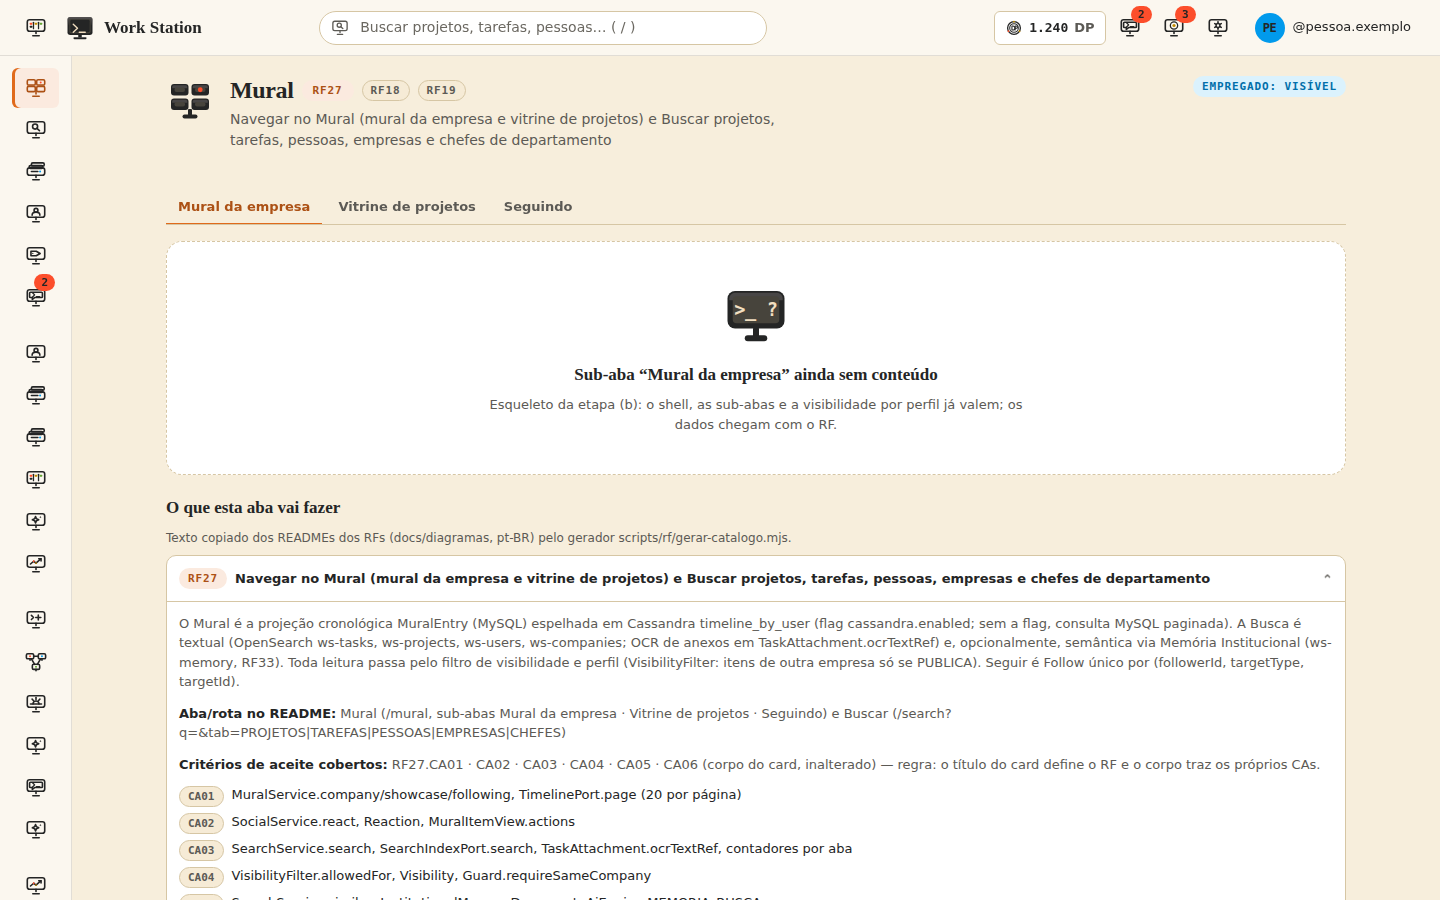
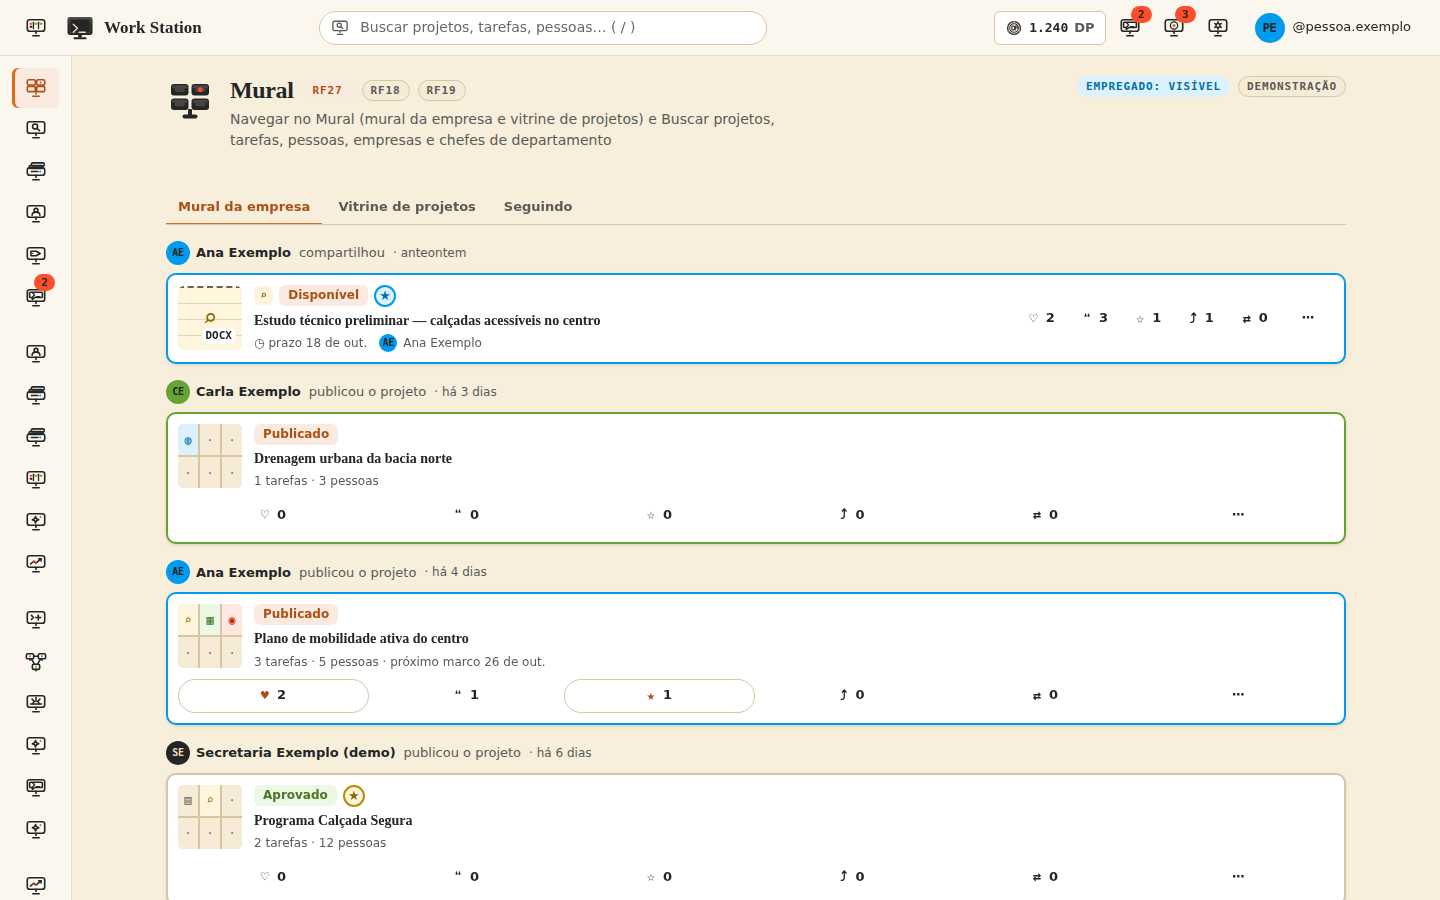
docs(rf19): social front sections, decisions D-90 to D-94, questions Q-190 to Q-194 and screenshots
Claude-Session: https://claude.ai/code/session_01KGwP9AAPCHnmdWi7UQkQYW

Changed region(s): [[0.0938, 0.2489, 0.9375, 1.0], [0.75, 0.0622, 0.9375, 0.1244]]

diff --git a/docs/DECISOES.md b/docs/DECISOES.md
@@ -52,6 +52,11 @@ Formato: **D-nn** decisão tomada (com justificativa) · **Q-nn** dúvida aberta
 | D-55 | 2026-10-06 | **Nenhuma API, controller ou serviço de aplicação de decisão estruturada antes dos Blocos 4/5 de segurança (BOLA/BFLA).** Esta etapa entrega só domínio, mapeamento de persistência (V22, JPA, repositórios) e testes; as permissões do §8 estão expressas no domínio (`DecisionRole.canEditStructure/canAssess/isReadOnly`, `Decision.decide/reopen` só do responsável, `DecisionParticipant.canSeeOthersScores` para G5), mas nenhum endpoint as expõe. | §8 do spec: "nenhuma API de decisão é exposta antes dele". |
 | D-56 | 2026-10-06 | **Modelo de pontuação `decia-scoring-v1` e vetores compartilhados.** Os cálculos do §6 vivem em `domain.decisao.analise` (puros, sem Spring; `Freshness` recebe `Clock`): `WeightedScoring` (mediana, pesos 100 ± 0,01, contribuições, incompletas, empate < 0,05, `r2 = floor(x·100 + 0,5 + 1e-9)/100`), `DivergenceAnalysis`, `DominanceAnalysis`, `SensitivityAnalysis` (passos inteiros, w−d antes de w+d, redistribuição proporcional, ordem delta → posição → novo líder), `EvidenceStrength`, `RiskSeverity`, `Readiness`, `Health` (sem total), `ConfidenceBand`, `Calibration` (Brier com `round(v, 4)` do Python = HALF_EVEN sobre o double exato), `PreDecisionGuard`, `SnapshotCanonicalizer` (JSON canônico = `json.dumps(sort_keys, separators, ensure_ascii=False)`, números como `repr(float)`, SHA-256 UTF-8) e `RecommendationValidator`. `contracts/decia/vetores.json` (oráculo `gerar_vetores.py`) é o contrato Java × TypeScript: `DeciaVectorsTest` confere **todos** os vetores de **todas** as seções com igualdade exata de `double` e falha se surgir seção nova sem teste. A versão `decia-scoring-v1` é gravada em `decision_snapshots.model_version`; mudar a fórmula = nova versão + novos vetores. | G3 (modelo transparente) e G10 (indicadores separados); um oráculo único impede que front e back divirjam. |
 | D-57 | 2026-10-06 | **Fatos de domínio ≠ analytics ≠ mensagens técnicas** (Hohpe & Woolf, *Event Message* / *Message History*): `DecisionEventType` só tem fatos no pretérito (24, `messageType()` PascalCase para o outbox, ex.: `DecisionFinalized`); `card_flipped`/`decision_compared` saem do domínio e ficam no analytics do frontend; o histórico técnico (consumidores, tentativas) fica fora de `decision_events` (PR de mensageria). Mais: `Decision.decide` calcula o guarda a partir dos valores gravados e de `PreDecisionGuard.Facts` da mesma alternativa (não aceita `Result` pronto); `decision_snapshots`/`decision_events` com `@DomainEntity(appendOnly = true)` → entidade `@Immutable`, colunas `updatable = false`, repositório só `save`/`findById`/`count` (teste-guarda `AppendOnlyRepositoriesTest`); matriz sem critérios é inválida (`SEM_CRITERIOS`, novo vetor). | Achados do Codex no PR #30 e briefing de arquitetura de mensagens. |
+| D-90 | 2026-10-06 | **Rede social — reações e seguir (onda Social, front DEMO).** CURTIR liga/desliga e é único por pessoa e alvo (RF26.CA01); as reações qualitativas ÚTIL · BEM_FUNDAMENTADO · INOVADOR · CONFORME são **excludentes entre si** (uma por pessoa e alvo; escolher outra substitui, repetir remove) e independentes do CURTIR. Reação do próprio dono é aceita com `ignoredReason AUTO_INTERACAO` e não notifica. `Follow` não tem estado pendente (o domínio só tem ATIVO/REMOVIDO e não há perfil privado): seguir é imediato, idempotente e reativa o mesmo registro. | O índice único de `reactions` é (actor, target, reaction_type) e o `ReactionType` diz que "CURTIR é única"; o CA01 fala em "1 reação por usuário e alvo". A leitura escolhida satisfaz os dois sem mudar V16. Pergunta em Q-190. |
+| D-91 | 2026-10-06 | **Comentários:** resposta de **um nível** (responder a uma resposta pendura no comentário raiz, `parentCommentId` = raiz); edição só pelo autor, **sem janela de tempo** (grava `editedAt`); exclusão lógica (`active=false`, `deletedBy`) pelo autor ou pelo chefe do departamento do item; raiz removida com respostas aparece como "comentário removido"; limite de **1000 caracteres** na UI (mesmo de `Assignment.message`); @menção só notifica quem pode ver o item. | `Comment` (V16) permite árvore, `contentMd` é TEXT e não há regra de janela; um nível mantém o card legível no celular. Pergunta em Q-191. |
+| D-92 | 2026-10-06 | **Remixar e Delegar.** Remix exige login, leitura, item de **outra pessoa**, visibilidade PUBLICA ou EMPRESA ("pública" do RF26.CA06 lido como "além do departamento") e classificação PUBLICO/INTERNO — RESTRITO e SIGILOSO **nunca**; a cópia nasce RASCUNHO + PRIVADA no Acervo do ator com `originalTaskId`/`originalProjectId` = item de origem (a cadeia segue pelos pais; o crédito mostra o autor do original e "via" o pai), sem comentários/reações/salvos/chancelas/prazo/responsável; `reuseCount` da origem +1. **Delegar** (= "atribuir", RF18.CA03) segue o CA: qualquer pessoa logada que **vê** o item e é da mesma empresa do item pode propor a um colega da mesma empresa (não só dono/chefe); chefe → membro do seu departamento usa origem MINHA_EQUIPE; SIGILOSO só o dono delega; RESTRITO/SIGILOSO só para alguém do departamento do item; contas EMPRESA não recebem; "Devolver" só existe depois de ACEITA (máquina do Java: PROPOSTA → ACEITA/RECUSADA; ACEITA → DEVOLVIDA) e exige ≥ 20 caracteres (RF18.CA05). O destinatário de uma atribuição em aberto passa a ver o item. | Board é a fonte (RF18.CA03 diz "sem exigir papel de chefe"); o pedido do dono ("delegar a outro usuário") não restringe. Pergunta em Q-192. |
+| D-93 | 2026-10-06 | **Visibilidade no front:** quem vê = dono, responsável e destinatário de atribuição aberta sempre; RASCUNHO e PRIVADA nunca para terceiros; PUBLICA todos (inclusive visitante); EMPRESA mesma empresa; DEPARTAMENTO lotação vigente. **RESTRITO e SIGILOSO** restringem ainda mais: só pessoas do departamento dono (como RF17.CA03 diz para RESTRITO); a classificação também bloqueia remix, Mural e link externo (e SIGILOSO a sessão DECIA). Contadores do cabeçalho contam só o que o viewer vê; DECIA Points só para o dono; Hype pelo `hypeVisibility`. | RF16.CA03/RF6.CA06 só citam `Visibility`; sem a regra de classificação um SIGILOSO marcado EMPRESA apareceria para toda a empresa. Pergunta em Q-193. |
+| D-94 | 2026-10-06 | **Compartilhar e notificações:** canais = os três do `ShareChannel` (MURAL, SESSAO_DECIA, LINK_EXTERNO); chat (RF46) não é canal de `Share` e a folha orienta usar Delegar/Mensagens. MURAL cria `MuralEntry COMPARTILHAMENTO` na empresa do ator e exige item não privado e não RESTRITO/SIGILOSO; LINK_EXTERNO só para item PUBLICA com classificação PUBLICO, validade 1–30 dias (padrão 7). Notificações: nunca para si mesmo; REACAO/COMENTARIO/MENCAO/REMIX agrupadas por (tipo, alvo, hora) enquanto não lidas; ATRIBUICAO_* uma por atribuição/resposta. Salvar, compartilhar e seguir **não notificam** — o `NotificationType` não tem tipo para eles. Tudo em repositório DEMO em memória (`lib/social/repository.ts`, recarregar volta aos exemplos), sem API nem migration até os Blocos 4–5. | Evita inventar tipos de notificação fora do domínio. Pergunta em Q-194. |
 
 ## Dúvidas abertas (perguntar antes de codificar)
 
@@ -171,6 +176,11 @@ Formato: **D-nn** decisão tomada (com justificativa) · **Q-nn** dúvida aberta
 | Q-154 | RF29, DECIA 5b | **O board não tem RF para premissas, previsões, checkpoints, resultado e revisão pós-decisão.** Proposta: tratá-los como extensão de **RF29 (Rastro de Decisão)** e do objetivo 1 do board; o dono confirma ou cria cartões. | `DecisionAssumption`, `DecisionForecast`, `DecisionCheckpoint`, `DecisionOutcome`, `DecisionRetrospective` |
 | Q-155 | RF4–RF17, RF29 | **`SessionStatus` × `DecisionLifecycle`.** Proposta: sessão = espaço de deliberação; decisão = registro; uma sessão pode gerar N decisões (`decisions.session_id`). | `DeciaSession`, `Decision` |
 | Q-156 | Bibliografia, DECIA 5b | **Referências fora da bibliografia**: calibração (Brier/Tetlock), pré-mortem (G. Klein), MCDA (Keeney/Saaty) e heurísticas (Nielsen). Proposta: incluir na `BIBLIOGRAFIA.md` após verificação humana; até lá, essas regras ficam como PRODUCT HYPOTHESIS. | `Calibration`, `RiskSource.PRE_MORTEM`, `WeightedScoring` |
+| Q-190 | RF19 (RF26.CA01/CA02) | Reações qualitativas: uma por pessoa e alvo (D-90, excludentes entre si e independentes do CURTIR) ou várias ao mesmo tempo, como o índice único (actor, target, reaction_type) de V16 permite? | `Reaction`, Hype (RF45.CA04), seletor de reações |
+| Q-191 | RF19 (RF26.CA03) | Comentários: respostas só de 1 nível (D-91)? Há janela para editar (ex.: 15 min) ou edição livre com "editado"? O limite de 1000 caracteres serve? | `Comment`, CommentThread |
+| Q-192 | RF18.CA03, RF26.CA06, RF10 | (a) "Remixar tarefa pública": vale também EMPRESA (D-92) ou só PUBLICA? (b) Delegar: qualquer pessoa que vê o item (como o CA diz) ou só o dono e o chefe do departamento? (c) Devolver logo na proposta (sem aceitar) deveria existir? Hoje segue o Java: só RECUSAR na proposta e DEVOLVER depois de aceitar. | `remixPermission`, `delegatePermission`, `AssignmentStatus` |
+| Q-193 | RF16.CA03, RF17.CA03, RF43.CA02 | RESTRITO/SIGILOSO no perfil de terceiros: restringir a leitura ao departamento dono (D-93) ou listar o título para quem a `Visibility` permite e esconder só o conteúdo? | `AccessPolicy.visibilityFilter` |
+| Q-194 | RF26.CA05/CA09, RF27, RF46 | Criar `NotificationType` para COMPARTILHAMENTO, SALVO e NOVO_SEGUIDOR (RF26.CA09 diz "toda interação gera notificação")? Chat (RF46) deve virar um `ShareChannel` (ex.: MENSAGEM_DIRETA) ou fica só como anexo de mensagem? | `NotificationType`, `ShareChannel`, V16 |
 
 ## Perguntas das pesquisas de produto (etapa 0 do brief de esqueleto)
 

diff --git a/docs/testes/shell/README.md b/docs/testes/shell/README.md
@@ -28,5 +28,17 @@ Geradas por `node scripts/shell/capturas.mjs` (Playwright + Chromium em `/opt/pw
 | [`28-decia-workspace-execucao-revisao.png`](28-decia-workspace-execucao-revisao.png) | `/decia/decisoes/d-lancamento?secao=execucao` | EMPREGADO | claro | 1440×900 | Workspace › Execução e revisão (lançamento, REVISADA): resultado PARCIAL, processo ADEQUADO, previsões e Brier |
 | [`29-decia-decisoes-mobile.png`](29-decia-decisoes-mobile.png) | `/decia?tab=decisoes` | EMPREGADO | claro | 390×844 | Celular: lista COMPACT de decisões (tocar abre o workspace) |
 | [`30-decia-decisao-vazia-ux.png`](30-decia-decisao-vazia-ux.png) | `/decia/decisoes/d-navegacao?secao=comparar` | EMPREGADO | claro | 1440×900 | Decisão de UX em ENQUADRAMENTO: estados vazios com a próxima ação (alternativas, critérios) |
+| [`40-perfil-proprio.png`](40-perfil-proprio.png) | `/profile` | EMPREGADO | claro | 1440×900 | RF6 — meu perfil: cabeçalho com contadores reais, Delegadas a mim, notificações e Acervo Digital em grade |
+| [`41-perfil-terceiros.png`](41-perfil-terceiros.png) | `/u/ana.exemplo` | EMPREGADO | claro | 1440×900 | RF16 — perfil de terceiros: sub-abas 1–5, Seguir, Hype público, itens filtrados pela visibilidade e barra social inline |
+| [`42-perfil-chefe.png`](42-perfil-chefe.png) | `/departments/cpoe?tab=projetos` | EMPREGADO | claro | 1440×900 | RF14 — página do departamento (perfil do chefe): chefe com link ao perfil pessoal, contadores, Seguir e projetos publicados |
+| [`43-perfil-empresa.png`](43-perfil-empresa.png) | `/companies/secretaria-exemplo` | EMPREGADO | claro | 1440×900 | RF15 — página da empresa: contadores institucionais (sem cargo/Hype/DP), Seguir e projetos publicados |
+| [`44-tarefa-expandida-social.png`](44-tarefa-expandida-social.png) | `/tasks/t-ana-etp` | EMPREGADO | claro | 1440×900 | RF19/RF41 — esquema de tarefa no layout ampliado com a barra social completa (curtir, reagir, comentar, salvar, compartilhar, remixar, delegar, retornar) |
+| [`45-comentarios.png`](45-comentarios.png) | `/tasks/t-ana-etp` | EMPREGADO | claro | 1440×900 | RF26.CA03 — comentários com resposta de 1 nível, @menção, editar/excluir os próprios e contador de caracteres |
+| [`46-compartilhar.png`](46-compartilhar.png) | `/tasks/t-ana-etp` | EMPREGADO | claro | 1440×900 | RF26.CA05 — folha Compartilhar: Mural, sessão DECIA e link externo com validade (canais do ShareChannel) |
+| [`47-remixar.png`](47-remixar.png) | `/u/ana.exemplo` | EMPREGADO | claro | 1440×900 | RF26.CA06 — Remixar: original, crédito e o que será copiado × o que fica no original |
+| [`48-mural.png`](48-mural.png) | `/mural` | EMPREGADO | claro | 1440×900 | RF27 — Mural da empresa: compartilhamentos e projetos publicados com a barra social inline (só o que o viewer pode ver) |
+| [`49-perfil-mobile.png`](49-perfil-mobile.png) | `/u/ana.exemplo` | EMPREGADO | claro | 390×844 | Celular: perfil de terceiros sem rolagem horizontal (cards em coluna, barra social compacta) |
+| [`50-delegar-dialogo.png`](50-delegar-dialogo.png) | `/tasks/t-pessoa-cronograma` | EMPREGADO | claro | 1440×900 | RF18.CA03 — Delegar: busca de pessoas da empresa (motivo para quem não pode receber), mensagem e prazo |
+| [`51-delegadas-a-mim.png`](51-delegadas-a-mim.png) | `/profile` | EMPREGADO | claro | 1440×900 | RF18.CA04/CA05 — Delegadas a mim: Aceitar/Recusar a proposta, Devolver a aceita (motivo ≥ 20) e Delegadas por mim |
 
 Capturas do smoke E2E (`npx playwright test`, `e2e/shell.spec.ts`) ficam em [`e2e/`](e2e/).

diff --git a/docs/diagramas/RF19/README.md b/docs/diagramas/RF19/README.md
@@ -594,3 +594,33 @@ flowchart LR
 | RF26.CA08 | `AccessPolicy.canInteract` | `S1`→`S2`→`E403` | 5–7 | nota de `PUB` | `SECU`, `GEH` | planejado |
 | RF26.CA09 | eventos `Reacted`/`Commented`/`Mentioned`/`Remixed`, `NotificationPort`, `Notification.groupKey`, `DeliberativeProfilePort.recordInteraction` | `EV`→`A5` | 12–14, 23, 57 | nota de `PUB` | `EVT`, `GAM`, `CAS` | planejado (objetivo 2) |
 | (título) retornar · atribuir | `AssignmentService`, `Assignment` | — | — | `AssignmentStatus` (RF18 §4) | `ASG` no RF18 | modelado no RF18.CA03–CA06 (remissão) |
+
+## 7. Front implementado (onda Social, DEMO)
+
+Barra social e diálogos em `components/social/` (SocialBar, ReactionPicker, CommentThread, ShareSheet, RemixDialog, DelegateDialog/GiveBackDialog, AssignmentInbox) sobre regras puras em `lib/social/rules.ts` e o repositório **DEMO** em memória (`SocialRepository`, mesmo padrão do DECIA; a API `/api/interactions/...` vem depois dos Blocos 4–5). Tipos espelham `domain/social/*` (V16) e `domain/mensageria/Assignment` (V20) — `lib/social/types.test.ts` compara os enums com os `.java`.
+
+| CA | Implementação |
+|---|---|
+| RF26.CA01 | `react(…, "CURTIR")` liga/desliga; contador `countersOf`. |
+| RF26.CA02 | Qualitativas excludentes entre si, CURTIR independente (D-90); reação do dono grava `ignoredReason AUTO_INTERACAO`. |
+| RF26.CA03 | `addComment` (resposta de 1 nível, D-91), `editComment` (só autor, `editedAt`), `deleteComment` (autor ou chefe do departamento; lógica `active=false`, `deletedBy`), @menções → `MENCAO` só para quem vê o item; limite 1000 caracteres. |
+| RF26.CA04 | `toggleSave` / `toggleFavorite`; sub-abas Tarefas/Projetos salvos com "indisponível" quando o alvo saiu da visibilidade. |
+| RF26.CA05 | `share` nos três `ShareChannel`: MURAL (cria `MuralEntry COMPARTILHAMENTO`), SESSAO_DECIA (exige sessão), LINK_EXTERNO (token + validade 1–30 dias). Classificação e visibilidade limitam os canais (D-94). |
+| RF26.CA06 | `remix`: cópia RASCUNHO/PRIVADA no Acervo do ator com `originalTaskId`/`originalProjectId`, `reuseCount+1`, `Remix`, notificação ao autor e ao autor do original; remix de remix mantém a cadeia (`remixChain`); RESTRITO/SIGILOSO nunca (D-92). |
+| RF26.CA07 | Contadores derivados dos registros a cada mudança (sem Redis no DEMO). |
+| RF26.CA08 | `canInteract` = login + `canView`; toda ação indisponível fica `aria-disabled` com o motivo no nome acessível. |
+| RF26.CA09 | `notify`: nunca para si mesmo; agrupada por tipo + alvo + hora (`groupKey`); atribuições individuais (uma por `Assignment`). |
+| retornar · atribuir | "Delegar" = `Assignment PROPOSTA` (RF18.CA03); "Retornar" = ACEITA → DEVOLVIDA com motivo ≥ 20 (RF18.CA05). Ver RF18 §7. |
+
+```mermaid
+flowchart LR
+  B["SocialBar"] --> A{"Permissao?"}
+  A -->|"nao"| M["aria-disabled + motivo"]
+  A -->|"sim"| C["Comando puro em lib/social/rules"]
+  C --> S["Novo SocialState"]
+  S --> N["notify agrupado por hora"]
+  S --> R["Repositorio DEMO"]
+  R --> U["Cards e contadores atualizados"]
+```
+
+Rotas: `/tasks/[id]` (layout ampliado + comentários), `/mural`, perfis. Capturas `44`–`48`.

diff --git a/docs/diagramas/RF16/README.md b/docs/diagramas/RF16/README.md
@@ -475,3 +475,29 @@ flowchart LR
 | RF16.CA04 | `ProfileService.hypeFor`, `AccessPolicy.canSeeHype`, `User.hypeVisibility`, `HypeScorePort`, `DeliberativeProfilePort` (`publicIndicatorsJson`, `badgesJson`) | `S6` | 9–15 | bloco `HYPE` | `PF`, `RDS` | `hypeVisibility` real (Bloco 3); exposição planejada (RF45.CA06/CA10) |
 | RF16.CA05 | URL `?tab=&fase=&categoria=&page=&size=`, `InteractionService` (RF18/RF19), `TaskExtractionService` (RF7), `FollowService` (RF14) | `A2`→`F2`, `A3`→`F4` | 21–27 | — | `UI` (`TaskCard`, `Counters`), `SOC` | planejado |
 | RF16.CA06 | `ProfileService.header` (`institutionalTag`), `User.profileType`, `Department.headUserId`, `Company.ownerUserId` | `S7`→`S8`, `A4` | 32–36 | — | `UI` (`Tag`, `Monogram`), `PG` | planejado (`ProfileType` real) |
+
+## 7. Front implementado (onda Social, DEMO)
+
+Rota `/u/[username]` funcional sobre o repositório **DEMO** em memória (`lib/social/repository.ts`, sem API até os Blocos 4–5): `app/(shell)/u/[username]/page.tsx` (servidor: username desconhecido → `notFound()` = 404, CA01) → `components/social/ProfileView.tsx`. Regras puras em `lib/social/rules.ts` (`canView`, `profileTasks`, `profileProjects`, `canSeeHype`, `toggleFollow`) e view models em `lib/social/view-model.ts` (`toProfileHeaderViewModel`, `profileTabsFor`).
+
+| CA | O que a tela faz |
+|---|---|
+| RF16.CA01 | Cabeçalho com avatar, nome, cargo, departamento (monograma, link RF14), empresa (link RF15), contadores reais (tarefas e projetos que **o viewer** vê, decisões, seguidores ATIVO) e **Seguir** (`Follow` ATIVO ⇄ REMOVIDO no mesmo registro); 404 para username inexistente. |
+| RF16.CA02 | Só as sub-abas 1–5 (`profileTabsFor`); dono EMPRESA sem a 5; independe do perfil de quem olha. |
+| RF16.CA03 | Acervo e Projetos passam por `canView` (PUBLICA · EMPRESA mesma empresa · DEPARTAMENTO lotação · nunca PRIVADA/RASCUNHO; RESTRITO/SIGILOSO só o departamento dono — D-93). |
+| RF16.CA04 | DECIA Points nunca para terceiros ("—" com texto oculto para leitor de tela); Hype conforme `hypeVisibility`. |
+| RF16.CA05 | Cada card traz a barra social inline (curtir, reagir, comentar, salvar, compartilhar, remixar, delegar, retornar) com motivo quando indisponível. Filtros por estado e grade/lista locais (URL fica para a API). |
+| RF16.CA06 | Chefe: etiqueta "Chefe de {sigla}" + atalho `/departments/[slug]`; EMPRESA: etiqueta institucional + atalho `/companies/[slug]`, sem DP/Hype. |
+
+```mermaid
+flowchart LR
+  P["/u/username (servidor)"] -->|"desconhecido"| N404["404"]
+  P --> V["ProfileView"]
+  V --> H["SocialProfileHeader"]
+  V --> T["Sub-abas 1 a 5"]
+  T --> C["TaskSchemeCard + SocialBar"]
+  C --> R["lib/social/rules (canView)"]
+  R --> D["Repositorio DEMO em memoria"]
+```
+
+Testes: `lib/social/rules.test.ts`, `lib/social/view-model.test.ts`, `components/social/social.test.tsx`, `e2e/social.spec.ts`; capturas `41-perfil-terceiros.png`, `47-remixar.png`, `49-perfil-mobile.png`.

diff --git a/docs/diagramas/RF18/README.md b/docs/diagramas/RF18/README.md
@@ -534,3 +534,17 @@ flowchart LR
 | RF18.CA04 | `AssignmentService.accept/refuse`, `AssignmentStateMachine`, `TaskStateMachine`, `DailyTaskPort` | `A4`→`F4`→`R1`→`R2`/`R3`, `E403`, `E409R`, `E422M` | 34–47 | `PROP`→`ACE`, `PROP`→`REC` | `ASG`, `ACV`, `GAM` | planejado (RF44) |
 | RF18.CA05 | `AssignmentService.giveBack`, `Assignment.reason/previousResponsibleId`, `TaskStateLog`, `AuditLogPort` (`ASSIGNMENT_RESPONDED`) | `A5`→`F5`→`G1`→`G2`, `E404`, `E422M` | 48–59 | `ACE`→`DEV` | `ASG`, `UI` (`Stamp` DEVOLVIDO) | planejado |
 | RF18.CA06 | `AssignmentController.historyFor`, `AssignmentService.historyFor`, `AssignmentRepositoryPort.findByTarget`, etiqueta no RF16 | `A6`→`F6`→`H1` | 60–65 | nota de `DEV` | `PG`, `UI` (`Tag`) | planejado (RF16, RF44 DELEGUEI, RF46.CA03–CA05) |
+
+## 7. Front implementado (onda Social, DEMO) — "Delegar"
+
+No produto o botão "atribuir" aparece como **Delegar** (pt-BR/es "Delegar", en "Delegate"), na barra social de tarefas e projetos e no detalhe `/tasks/[id]`. `DelegateDialog` busca pessoas da mesma empresa (nome, @usuário, sigla), mostra desabilitadas com motivo as que não podem receber, aceita mensagem (≤ 1000) e prazo (≥ hoje). Regras em `lib/social/rules.ts`: `delegatePermission` (CA03: quem vê o item, mesma empresa, item não fechado; SIGILOSO só o dono — D-92), `recipientPermission` (a si mesmo, outra empresa, conta institucional, já responsável, classificação RESTRITO/SIGILOSO fora do departamento, duplicata PROPOSTA/ACEITA), `delegate` (origem `MINHA_EQUIPE` se o ator chefia o departamento do destinatário, senão `BOTAO_ESQUEMA`; `previousResponsibleId`; **uma** notificação `ATRIBUICAO_PROPOSTA`), `respond` (espelho de `Assignment.respond` do Java, mesma ordem de erros) e `respondToAssignment` (CA04: ACEITA → responsável = destinatário, DISPONIVEL → EM_USO; CA05: DEVOLVIDA com motivo ≥ 20 → responsável volta ao anterior). "Delegadas a mim" (`AssignmentInbox`, em `/profile`) tem Aceitar · Recusar (motivo) e, depois de aceita, Devolver; o card do remetente mostra "Delegada a Y · aguardando" e o histórico (CA06) fica no detalhe.
+
+```mermaid
+stateDiagram-v2
+  [*] --> PROPOSTA: Delegar
+  PROPOSTA --> ACEITA: Aceitar
+  PROPOSTA --> RECUSADA: Recusar com motivo
+  ACEITA --> DEVOLVIDA: Retornar com motivo de 20 ou mais
+```
+
+Capturas `50-delegar-dialogo.png` e `51-delegadas-a-mim.png`; e2e "delegar … aceita" em `e2e/social.spec.ts`.

diff --git a/docs/diagramas/RF6/README.md b/docs/diagramas/RF6/README.md
@@ -476,3 +476,7 @@ flowchart LR
 | RF6.CA04 | `ProjectRepositoryPort.findByOwner`, `ProjectScheme.status/currentPhase/mosaicJson` | `A2`→`F3`→`S6`→`F7` | — | — | `UI` (`ProjectCard`, `PhaseBar`, `Mosaic`) | planejado |
 | RF6.CA05 | `SavedItemService.listMine/remove`, `SavedItem`, `CounterCachePort.decrement` | `A2`→`F4`→`S7`, `A5`→`F6`→`S11` | 39–44 | — | `SOC`, `RDS` | planejado (RF18/RF19, origem RF26.CA04) |
 | RF6.CA06 | `AccessPolicy.visibilityFilter/canView`, `Visibility` | `S4`, `E403` | 12–15 | — | `PF` | planejado (RF16, RF7) |
+
+## 7. Front implementado (onda Social, DEMO)
+
+`/profile` (`components/social/ProfileView.tsx`) funcional sobre o repositório DEMO: cabeçalho com contadores reais (CA01), **Acervo Digital** em grade/lista de `TaskSchemeCard` com sub-filtros por `TaskState` e contadores (CA02, filtros locais), inclusive as tarefas aceitas por delegação ("delegada por"), **Projetos** (`ProjectCard`, CA04), **Projetos salvos** / **Tarefas salvas** com "indisponível" + "Remover dos salvos" (CA05), **Decisões** com atalho ao DECIA, e os painéis "Delegadas a mim" e notificações da rede. Remixes feitos em perfis de terceiros entram aqui (RASCUNHO, PRIVADA, crédito ao original). Captura `40-perfil-proprio.png`.

diff --git a/docs/diagramas/RF27/README.md b/docs/diagramas/RF27/README.md
@@ -457,3 +457,7 @@ flowchart LR
 | RF27.CA06 | `Follow` (único), `FollowService.follow/unfollow`, `Notification`, fan-out `TimelineEvent` | A7 → F5 → P7 (409 JA_SEGUINDO) → P8 | 30–37 | `[*] → ATIVO → REMOVIDO → ATIVO` | `FS`, `FollowButton`, `DE` |
 
 Tela/aba: `/mural` (esqueleto em `app/(shell)/mural/page.tsx`) · `/search` (esqueleto em `app/(shell)/search/page.tsx`)
+
+## 7. Front implementado (onda Social, DEMO)
+
+`/mural` mostra o feed de `MuralEntry` do repositório DEMO (`muralFeed` em `lib/social/rules.ts`): **Mural da empresa** (entradas da empresa + públicas de outras; só alvos que o viewer vê — CA04), **Vitrine de projetos** (`PROJETO_PUBLICADO`) e **Seguindo** (atores, departamentos e empresas com `Follow` ATIVO — CA06), cada entrada com ator, verbo, card do alvo e a barra social inline. Compartilhar no Mural cria a entrada na hora. Buscar (`/search`) continua esqueleto. Captura `48-mural.png`.
